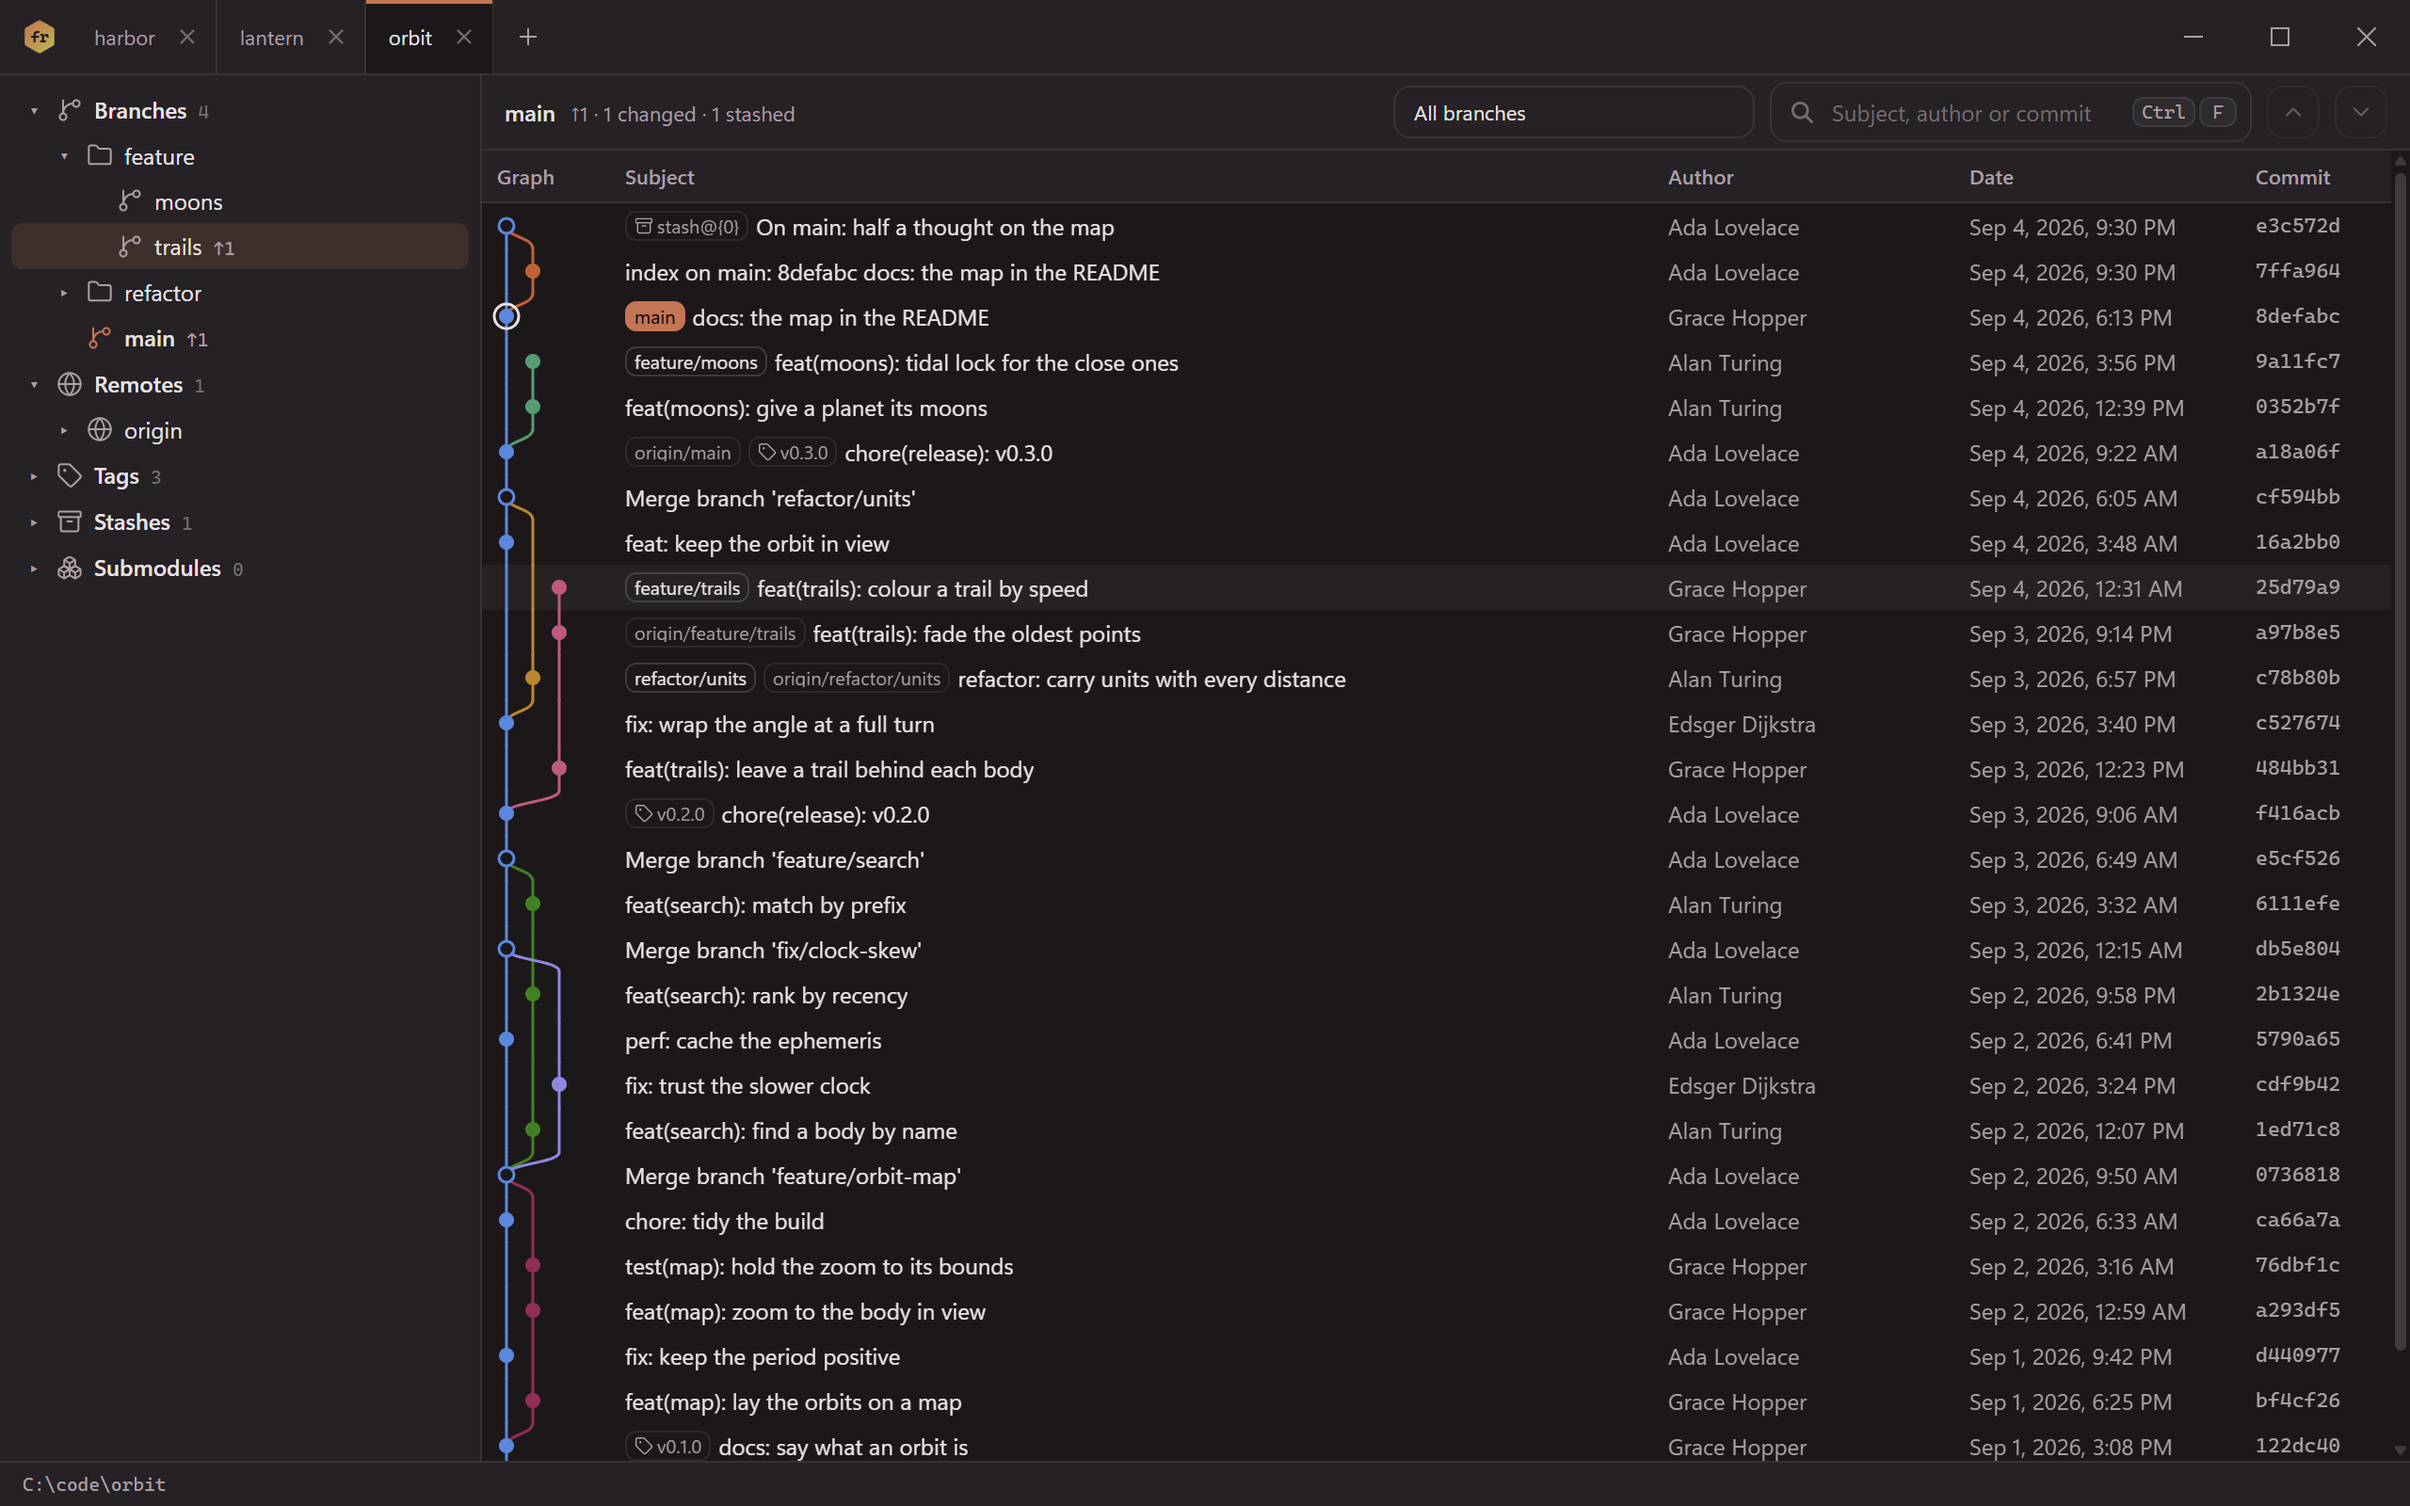
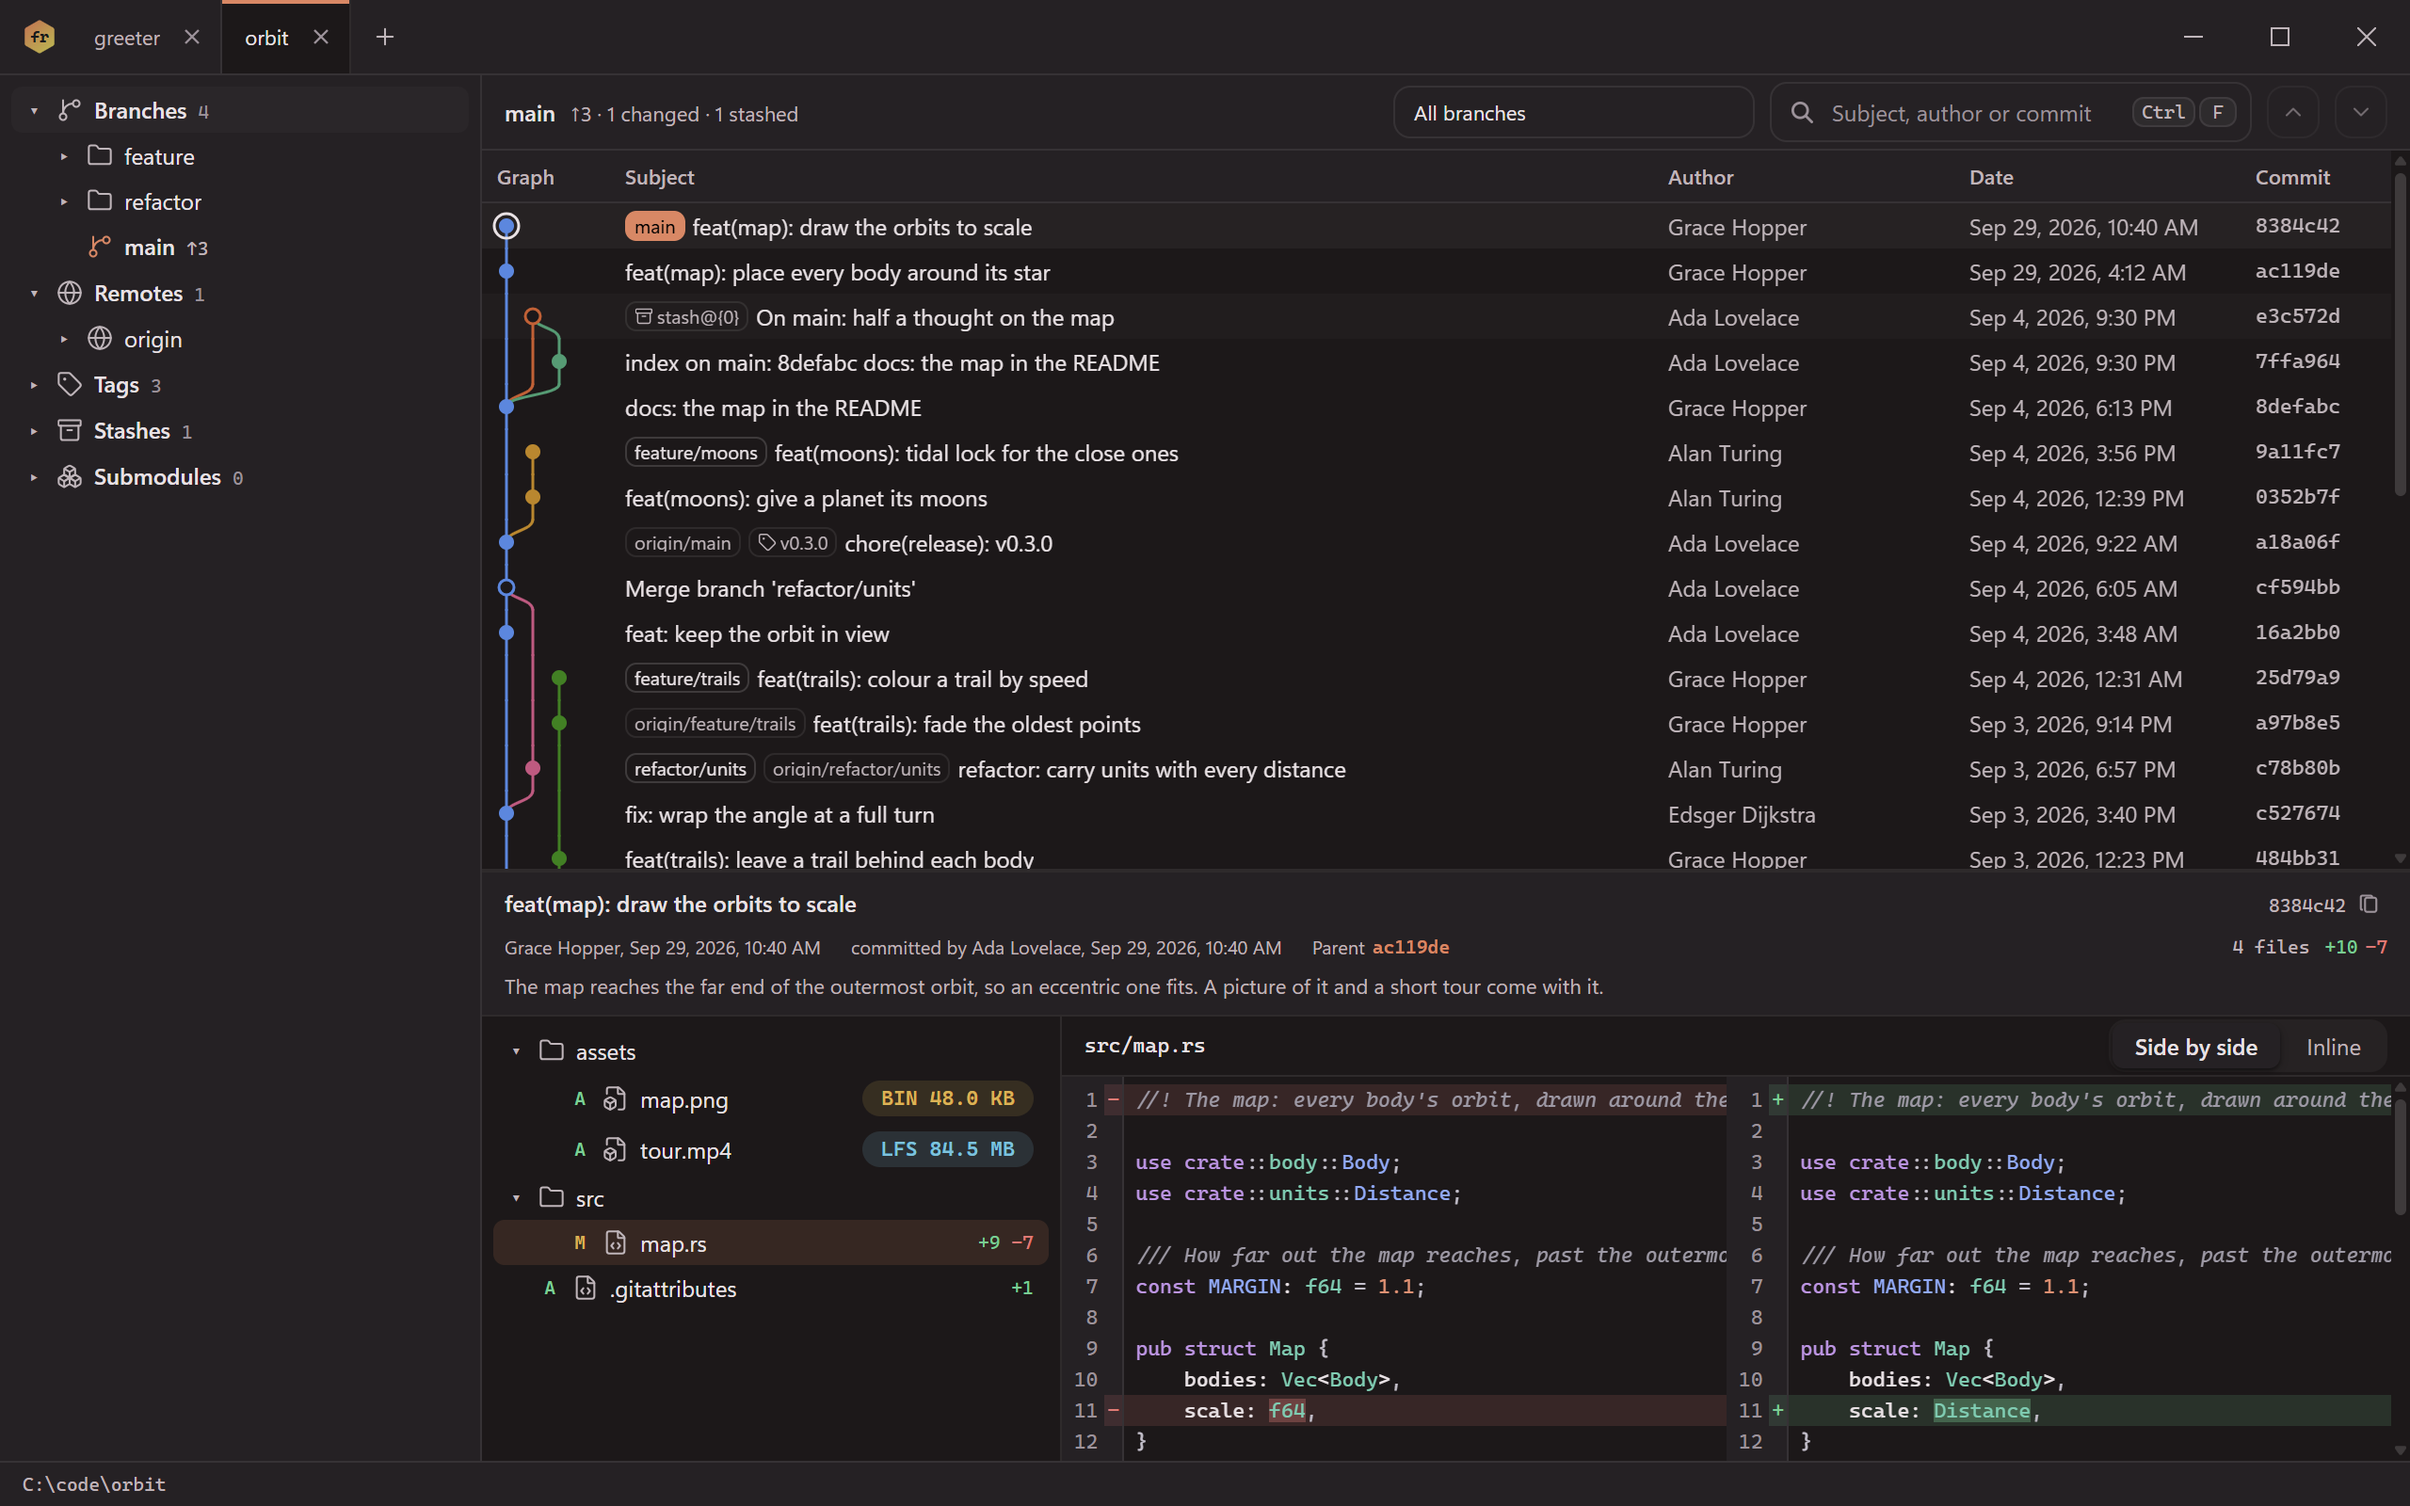
docs: show the window with a commit's details open
A synthetic repository, every name made up: the graph with its branches,
and under it a commit that changes code, adds a picture as it is and a
video through git LFS.

diff --git a/README.md b/README.md
@@ -15,7 +15,7 @@ Most git clients either reimplement git badly (breaking hooks, credential helper
 
 ## In a window
 
-<p align="center"><img src="https://raw.githubusercontent.com/lacodda/furca/main/assets/window.png" alt="furca's window: repositories in tabs, branches in folders on the left, and the graph of the history with its branches and tags" width="860"></p>
+<p align="center"><img src="https://raw.githubusercontent.com/lacodda/furca/main/assets/window.png" alt="furca's window: repositories in tabs, branches in folders on the left, the graph of the history, and under it the chosen commit - its files, a binary and a git LFS file named with their sizes, and a change side by side" width="860"></p>
 
 ## In a terminal
 

diff --git a/docs/src/content/docs/guides/the-window.md b/docs/src/content/docs/guides/the-window.md
@@ -10,7 +10,7 @@ tabs of repositories along the top, a column of refs on the left, the graph of
 the history beside it - and it draws its own title bar, so the tabs sit in it
 rather than in a band under it.
 
-![The window with three repositories open: the branches in folders on the left, the graph of the history with its branches and tags beside it](../../../assets/window.png)
+![The window with two repositories open: the branches in folders on the left, the graph of the history with its branches and tags beside it, and under the graph the chosen commit - its files, a binary and a git LFS file named with their sizes, and the change of one file side by side](../../../assets/window.png)
 
 ## Get it
 
